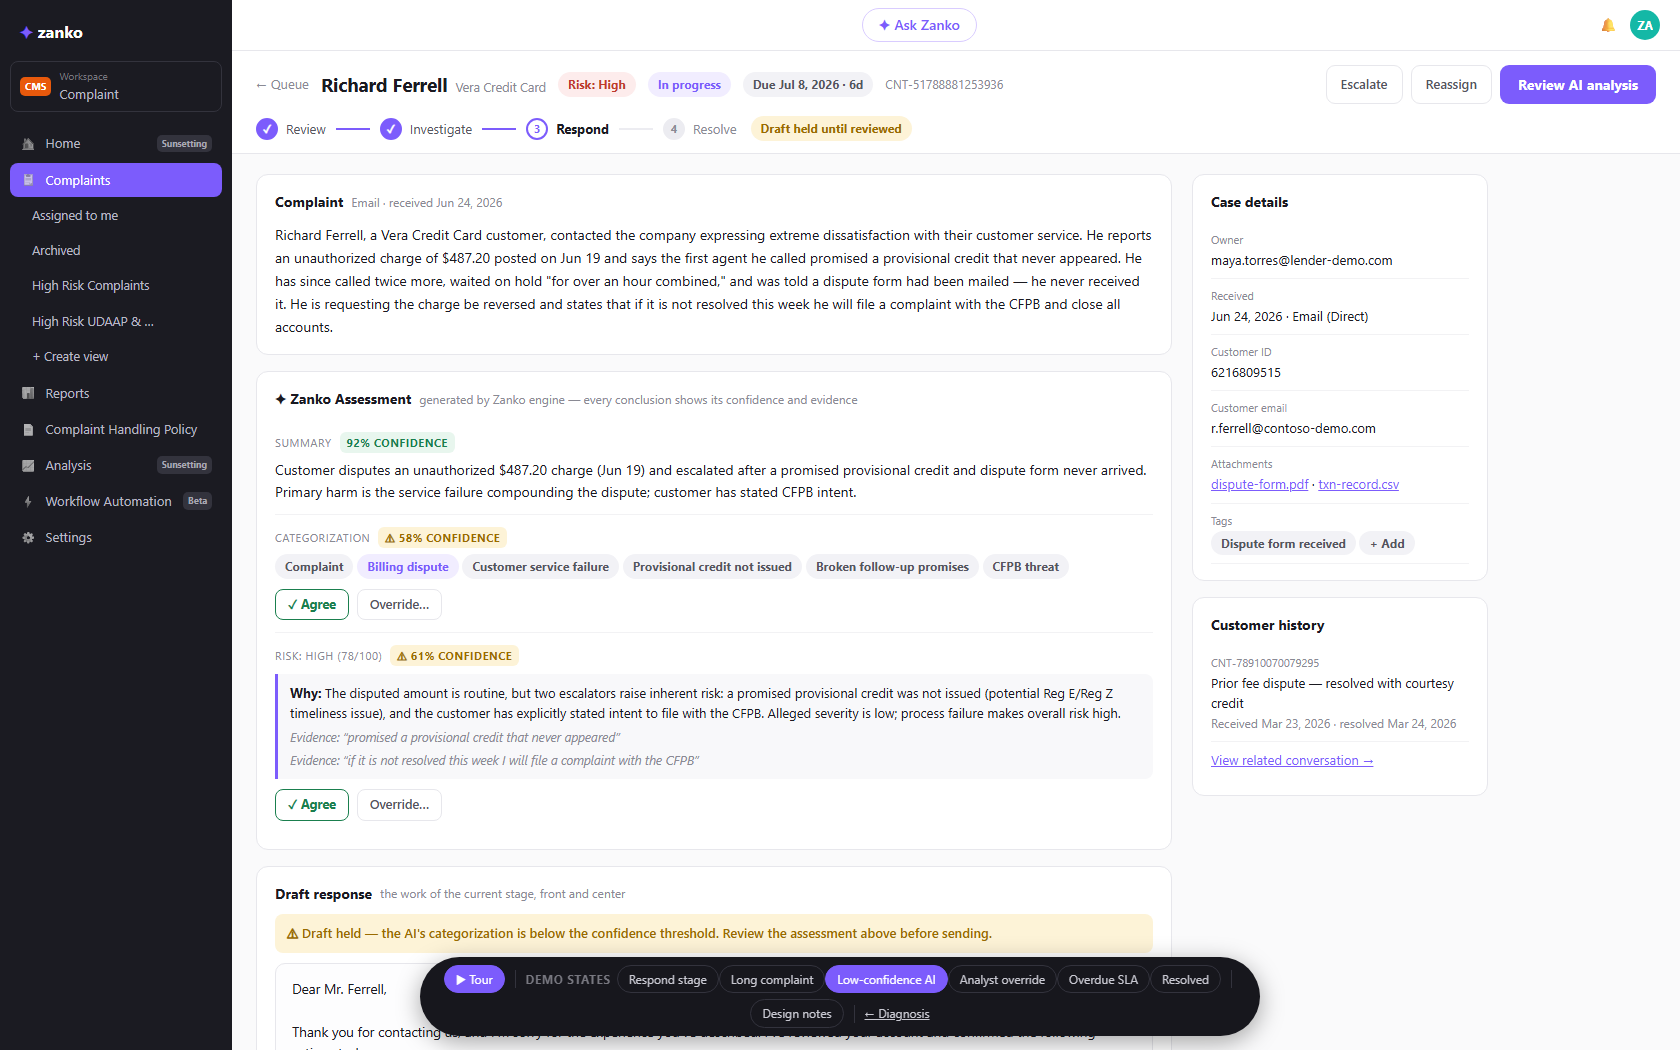
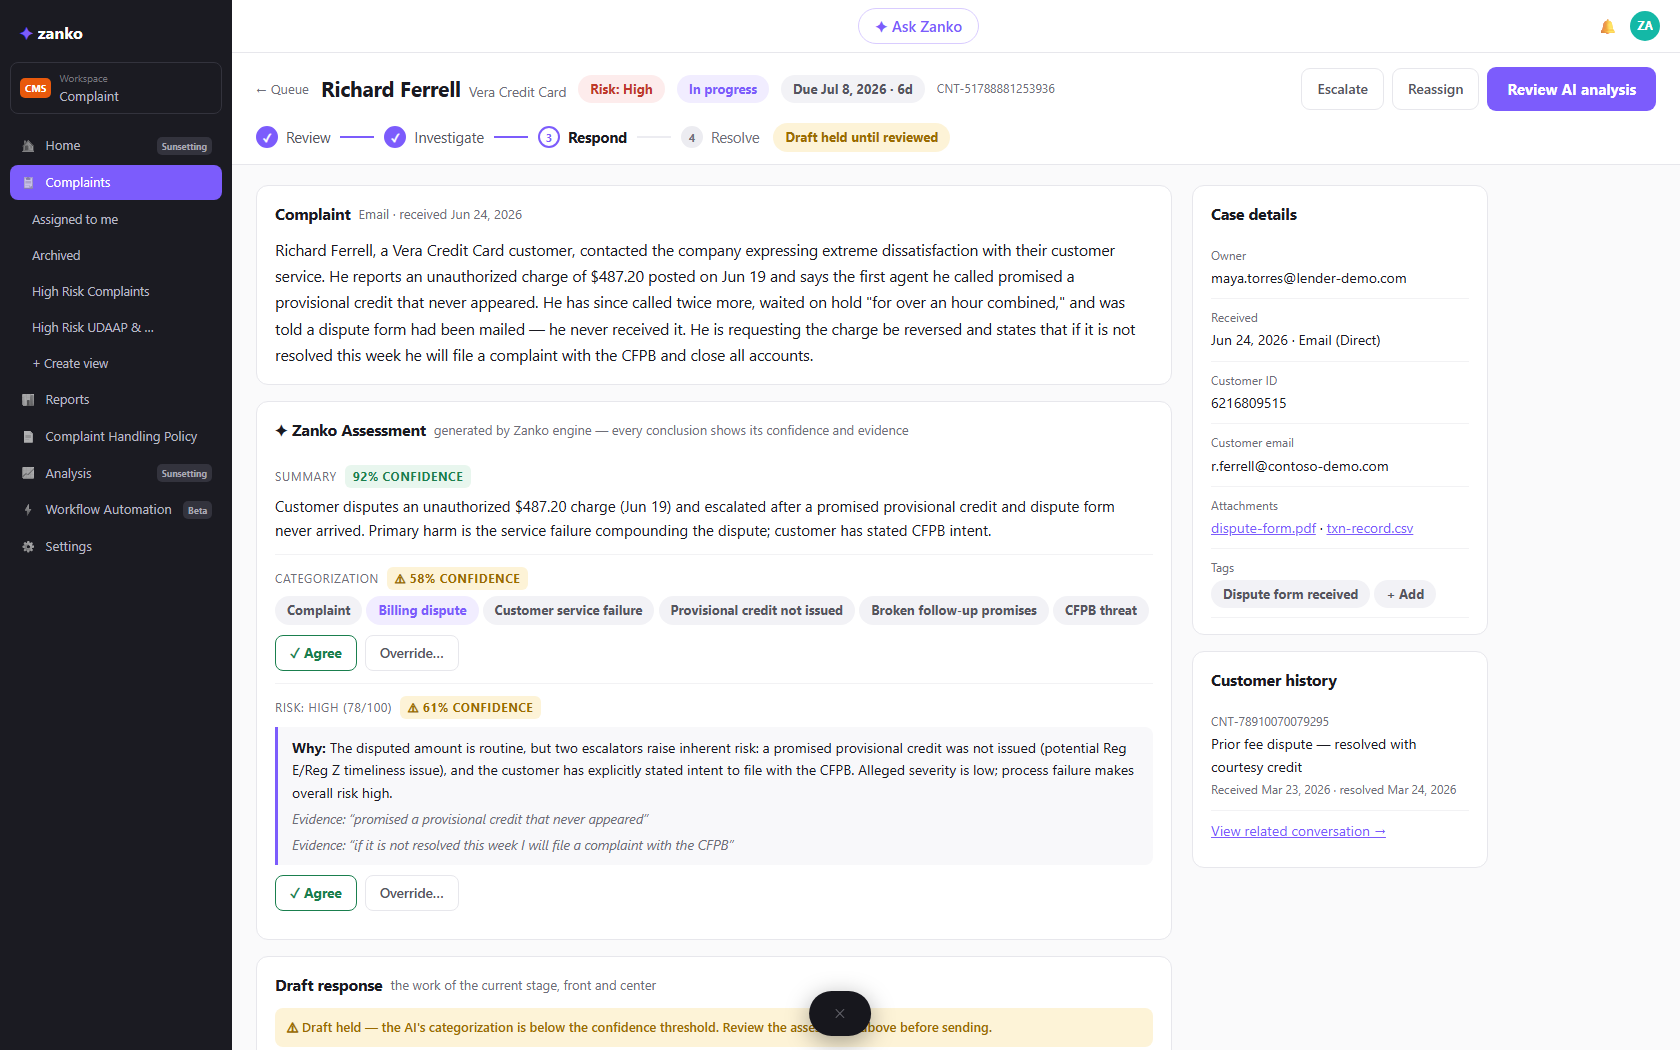
Calm pass on the case view: scannable by default, depth on demand
- Header: one row (status chip removed — the steps bar is the status),
  copy button on the case ID, Escalate/Reassign behind a quiet more
  menu beside the one primary action
- Stepper: dashed connectors with arrowheads; segment to the next step
  lightly tinted
- AI assessment: one scannable line (category, risk, confidence,
  agree/override) — full reasoning expands on demand, and auto-expands
  when the AI is unsure or was overridden
- History: latest two entries by default, Show all expands

diff --git a/proto.js b/proto.js
@@ -26,6 +26,9 @@ let state = {
   lowConfidence: false,    // demo: AI is unsure -> screen behaves differently
   tlFilter: "all",         // timeline filter: all | ai | comment | audit
   overrideOpen: false,     // the inline override-reason form
+  assessOpen: false,       // AI assessment: one line by default, expands
+  tlOpen: false,           // history: last 2 entries by default
+  moreOpen: false,         // Escalate/Reassign live behind a quiet toggle
 };
 
 // ---------- demo scenarios (the "key states" from the brief) ----------
@@ -41,7 +44,10 @@ const SCENARIOS = {
 
 function setScenario(name) {
   state = { ...state, c: freshCase(), scenario: name, complaintExpanded: false,
-            longContent: false, lowConfidence: false, overrideOpen: false, tlFilter: "all" };
+            longContent: false, lowConfidence: false, overrideOpen: false, tlFilter: "all",
+            // calm by default; open the AI details only when they need a human
+            assessOpen: (name === "lowconf" || name === "overridden"),
+            tlOpen: false, moreOpen: false };
   const c = state.c;
 
   if (name === "long") state.longContent = true;
@@ -142,20 +148,22 @@ function renderHeader() {
   const slaChip = overdue
     ? `<span class="chip red">⏰ Overdue by ${-c.dueInDays}d</span>`
     : `<span class="chip ${c.dueInDays <= 3 ? "amber" : ""}">Due ${c.due} · ${c.dueInDays}d</span>`;
-  const statusChip = state.scenario === "resolved"
-    ? `<span class="chip green">✓ Resolved</span>`
-    : `<span class="chip purple">${c.status}</span>`;
+  // no status chip: the steps bar IS the status (each fact once, R9)
+  const resolvedChip = state.scenario === "resolved" ? `<span class="chip green">✓ Resolved</span>` : "";
 
   $("#hdr-row").innerHTML = `
     <a class="back" href="#" onclick="return false">← Queue</a>
     <div class="who">${c.customer.name}<small>${c.customer.product}</small></div>
     <span class="chip red">Risk: ${c.assessment.risk.level}</span>
-    ${statusChip}
+    ${resolvedChip}
     ${slaChip}
-    <span class="case-id">${c.id}</span>
+    <span class="case-id">${c.id}
+      <button class="copy-id" title="Copy ID" onclick="navigator.clipboard && navigator.clipboard.writeText('${c.id}'); this.textContent='✓'; setTimeout(()=>this.textContent='⧉',900)">⧉</button>
+    </span>
     <div class="ch-actions">
-      <button class="btn-quiet">Escalate</button>
-      <button class="btn-quiet">Reassign</button>
+      ${state.moreOpen ? `<button class="btn-quiet">Escalate</button>
+      <button class="btn-quiet">Reassign</button>` : ""}
+      <button class="btn-more" onclick="state.moreOpen=!state.moreOpen;render()" title="More actions">⋯</button>
       <button class="btn-primary" onclick="advance()" ${a.disabled ? "disabled" : ""}>${a.label}</button>
     </div>
     <span class="dnote">Identity, stakes, SLA — zero scroll (R1, R10)</span>`;
@@ -164,7 +172,8 @@ function renderHeader() {
   $("#stepper").innerHTML = c.stages.map((s, i) => {
     const cls = i < c.stage ? "done" : i === c.stage ? "current" : "";
     const dot = i < c.stage ? "✓" : i + 1;
-    return `${i ? `<div class="step-line ${i <= c.stage ? "done" : ""}"></div>` : ""}
+    const lineCls = i <= c.stage ? "done" : i === c.stage + 1 ? "next" : "";
+    return `${i ? `<div class="step-line ${lineCls}"></div>` : ""}
       <div class="step ${cls}"><button onclick="jumpStage(${i})"><span class="dot">${dot}</span>${s}</button></div>`;
   }).join("") +
   (a.sub ? `<span class="chip amber" style="margin-left:14px">${a.sub}</span>` : "") +
@@ -202,15 +211,29 @@ function toggleComplaint() { state.complaintExpanded = !state.complaintExpanded;
 function renderAssessment() {
   const a = state.c.assessment;
   const d = a.analystDecision;
-  $("#assessment").innerHTML = `
-    <h2>✦ Zanko Assessment
-      <span class="sub">generated by Zanko engine — every conclusion shows its confidence and evidence</span></h2>
+  // One scannable line answers "what does the AI think, how sure is it?"
+  // The full reasoning is one click away — calm by default.
+  const headline = `
+    <div class="assess-row">
+      <span class="lead">✦ AI read:</span>
+      <span class="chip purple">${d ? d.to : a.category.primary}</span>
+      <span class="chip red">Risk ${a.risk.level} · ${a.risk.score}</span>
+      ${confBadge(Math.min(a.category.confidence, a.risk.confidence))}
+      ${d ? `<span class="chip amber">edited by analyst</span>` : ""}
+      ${state.scenario !== "resolved" && !d ? (state.c.agreed_category
+          ? `<span class="decided">✓ Confirmed</span>`
+          : `<button class="btn-agree" onclick="agree('category')">✓ Agree</button>
+             <button class="btn-override" onclick="state.overrideOpen='category';state.assessOpen=true;render()">Override…</button>`) : ""}
+      <button class="btn-details" onclick="state.assessOpen=!state.assessOpen;render()">
+        ${state.assessOpen ? "Hide the why ▴" : "See the why ▾"}</button>
+    </div>`;
 
+  const detail = !state.assessOpen ? "" : `
+    <div class="assess-detail">
     <div class="assess-block">
       <div class="assess-label">Summary ${confBadge(a.summaryConfidence)}</div>
       <div>${a.summary}</div>
     </div>
-
     <div class="assess-block">
       <div class="assess-label">Categorization ${confBadge(a.category.confidence)}</div>
       <div>
@@ -223,7 +246,6 @@ function renderAssessment() {
               Reason: ${d.reason} <em>(${d.who}, ${d.at} · recorded in audit log)</em></div>`
           : decideButtons("category")}
     </div>
-
     <div class="assess-block">
       <div class="assess-label">Risk: ${a.risk.level} (${a.risk.score}/100) ${confBadge(a.risk.confidence)}</div>
       <div class="why">
@@ -232,7 +254,10 @@ function renderAssessment() {
       </div>
       ${decideButtons("risk")}
     </div>
-    <span class="dnote">AI you can question: why, confidence, agree/override (R3, R4)</span>`;
+    </div>`;
+
+  $("#assessment").innerHTML = headline + detail +
+    `<span class="dnote">R3 R4 · one scannable line; the why is one click away</span>`;
 }
 
 // Agree is one click (cheap, frequent). Override asks for a reason
@@ -306,22 +331,24 @@ function renderWorkspace() {
 }
 
 function renderTimeline() {
-  const items = state.c.timeline
+  const all = state.c.timeline
     .filter((t) => state.tlFilter === "all" || t.kind === state.tlFilter)
     .slice().reverse();
+  const items = state.tlOpen ? all : all.slice(0, 2);
   const icon = { ai: "✦", comment: "💬", audit: "🔒" };
   $("#timeline").innerHTML = `
     <h2>Activity <span class="sub">one history: analyst, AI, and system — filter, don't hunt</span></h2>
-    <div class="tl-filters">
+    ${state.tlOpen ? `<div class="tl-filters">
       ${["all", "comment", "ai", "audit"].map((f) =>
         `<button class="${state.tlFilter === f ? "on" : ""}" onclick="state.tlFilter='${f}';render()">
           ${{ all: "All", comment: "Comments", ai: "AI actions", audit: "Audit" }[f]}</button>`).join("")}
-    </div>
+    </div>` : ""}
     ${items.map((t) => `
       <div class="tl-item">
         <div class="tl-icon ${t.kind}">${icon[t.kind]}</div>
         <div><div>${t.text}</div><div class="meta">${t.who} · ${t.at}</div></div>
       </div>`).join("")}
+    ${!state.tlOpen && all.length > 2 ? `<button class="show-more-tl" onclick="state.tlOpen=true;render()">Show all ${all.length} entries ▾</button>` : ""}
     <div class="comment-box"><input placeholder="Add a comment…"><button class="btn-quiet">Post</button></div>
     <span class="dnote">One auditable history: analyst, AI, system (R8)</span>`;
 }

diff --git a/proto.css b/proto.css
@@ -120,6 +120,17 @@ button { font: inherit; cursor: pointer; }
 .chip.purple{ background: var(--purple-soft); color: var(--purple); }
 
 .ch-actions { margin-left: auto; display: flex; gap: 8px; align-items: center; }
+.copy-id { background: none; border: 0; color: var(--muted); font-size: 14px; padding: 2px 4px; }
+.copy-id:hover { color: var(--purple); }
+.btn-more { background: var(--card); border: 1.5px solid #c4c4cd; color: #3f3f46;
+  border-radius: 9px; padding: 9px 12px; font-weight: 700; font-size: 14px; }
+
+/* the collapsed one-line AI assessment (scannable, not an essay) */
+.assess-row { display: flex; align-items: center; gap: 8px; flex-wrap: wrap; }
+.assess-row .lead { font-weight: 700; font-size: 15.5px; display: flex; align-items: center; gap: 6px; }
+.btn-details { background: none; border: 0; color: var(--purple); font-weight: 650; font-size: 13.5px; padding: 6px 4px; }
+.assess-detail { border-top: 1px solid #f2f2f4; margin-top: 12px; }
+.show-more-tl { background: none; border: 0; color: var(--purple); font-weight: 650; font-size: 13.5px; padding: 8px 0 0; }
 .btn-primary {
   background: var(--purple); color: #fff; border: 0; border-radius: 9px;
   padding: 10px 20px; font-weight: 650; font-size: 15px;
@@ -144,9 +155,12 @@ button { font: inherit; cursor: pointer; }
 .step.current .dot { background: #fff; border-color: var(--purple); color: var(--purple); }
 .step.current { color: var(--ink); font-weight: 650; }
 .step.done { color: #55555e; }
-.step-line { flex: 0 0 auto; margin: 0 12px; color: #c9c9d2; font-size: 18px; font-weight: 700; }
-.step-line::after { content: "➜"; }
-.step-line.done { color: var(--purple); }
+.step-line { flex: 0 0 46px; margin: 0 10px; border-top: 2px dashed #d4d4dc; position: relative; }
+.step-line::after { content: "▸"; position: absolute; right: -4px; top: -11px; color: #d4d4dc; font-size: 15px; }
+.step-line.done { border-color: var(--purple); }
+.step-line.done::after { color: var(--purple); }
+.step-line.next { border-color: #c9b8ff; }
+.step-line.next::after { color: #c9b8ff; }
 .step button { all: unset; display: flex; align-items: center; gap: 8px; cursor: pointer; }
 
 /* ---- SLA banner: appears only when the case demands attention (R10) ---- */
